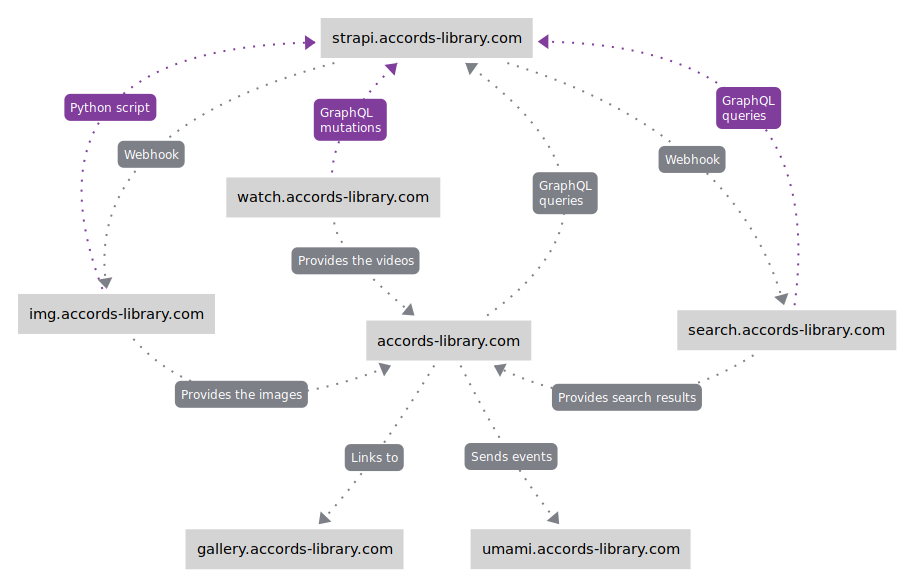
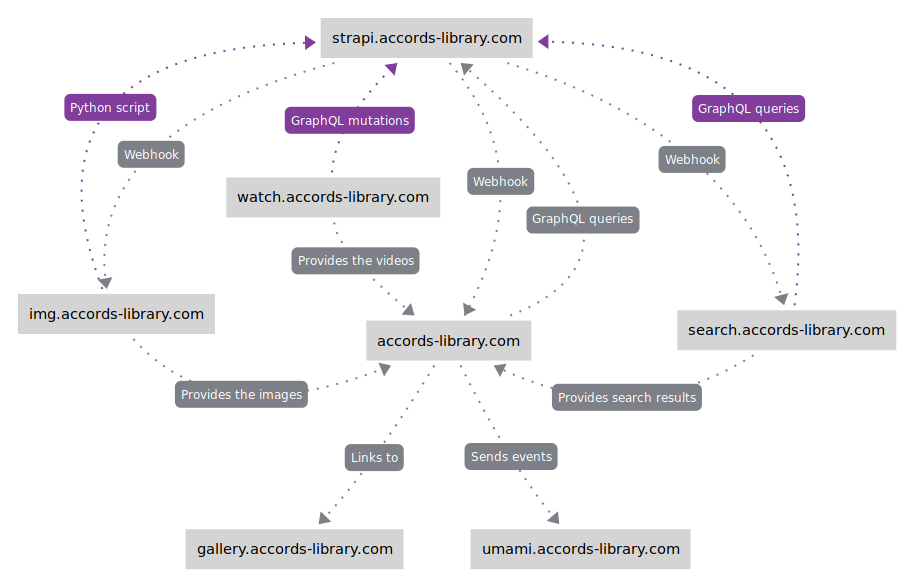
updated README

diff --git a/src/pages/index.tsx b/src/pages/index.tsx
@@ -1,9 +1,14 @@
+import { GetStaticProps } from "next";
 import { PostPage } from "components/PostPage";
-import { getPostStaticProps, PostStaticProps } from "graphql/getPostStaticProps";
+import { PostStaticProps } from "graphql/getPostStaticProps";
 import { Terminal } from "components/Cli/Terminal";
 import { atoms } from "contexts/atoms";
 import { useAtomGetter } from "helpers/atoms";
-import { TITLE_PREFIX } from "helpers/openGraph";
+import { getOpenGraph } from "helpers/openGraph";
+import { useFormat } from "hooks/useFormat";
+import { getFormat } from "helpers/i18n";
+import { getReadySdk } from "graphql/sdk";
+import { PostWithTranslations } from "types/types";
 
 /*
  *                                           ╭────────╮
@@ -11,6 +16,7 @@ import { TITLE_PREFIX } from "helpers/openGraph";
  */
 
 const Home = (props: PostStaticProps): JSX.Element => {
+  const { format } = useFormat();
   const isTerminalMode = useAtomGetter(atoms.layout.terminalMode);
 
   if (isTerminalMode) {
@@ -45,7 +51,6 @@ const Home = (props: PostStaticProps): JSX.Element => {
         </div>
       }
       displayTitle={false}
-      openGraph={{ ...props.openGraph, title: TITLE_PREFIX }}
       displayLanguageSwitcher
     />
   );
@@ -58,4 +63,21 @@ export default Home;
  * ───────────────────────────────────╯  NEXT DATA FETCHING  ╰──────────────────────────────────────
  */
 
-export const getStaticProps = getPostStaticProps("home");
+export const getStaticProps: GetStaticProps = async (context) => {
+  const sdk = getReadySdk();
+  const { format } = getFormat(context.locale);
+  const post = await sdk.getPost({
+    slug: "home",
+    language_code: context.locale ?? "en",
+  });
+  if (post.posts?.data && post.posts.data.length > 0) {
+    const props: PostStaticProps = {
+      post: post.posts.data[0]?.attributes as PostWithTranslations,
+      openGraph: getOpenGraph(format),
+    };
+    return {
+      props: props,
+    };
+  }
+  return { notFound: true };
+};

diff --git a/src/helpers/openGraph.ts b/src/helpers/openGraph.ts
@@ -2,6 +2,7 @@ import { OgImage, getImgSizesByQuality, ImageQuality, getAssetURL } from "./img"
 import { isDefinedAndNotEmpty } from "./asserts";
 import { getFormat } from "./i18n";
 import { UploadImageFragment } from "graphql/generated";
+import { useFormat } from "hooks/useFormat";
 
 const DEFAULT_OG_THUMBNAIL = {
   image: `${process.env.NEXT_PUBLIC_URL_SELF}/default_og.jpg`,
@@ -20,7 +21,7 @@ export interface OpenGraph {
 }
 
 export const getOpenGraph = (
-  format: ReturnType<typeof getFormat>["format"],
+  format: ReturnType<typeof getFormat>["format"] | ReturnType<typeof useFormat>["format"],
   title?: string | null | undefined,
   description?: string | null | undefined,
   thumbnail?: UploadImageFragment | null | undefined

diff --git a/README.md b/README.md
@@ -11,31 +11,62 @@ Yoko Taro is a Japanese video game director and scenario writer. He is best-know
 
 ## Technologies
 
-#### [Content Management System](https://github.com/Accords-Library/strapi.accords-library.com)
+### Overview
 
-- CMS: [Stapi](https://strapi.io/)
-  - GraphQL endpoint
-  - Multilanguage support
-  - Markdown format for the rich text fields
-  - Use webhooks to notify the front-end, search engine, and image processor of updates
+![](docs/project-mind-map.png)
 
-#### [Image Processor](https://github.com/Accords-Library/img.accords-library.com)
+_Purple connections are actions done at build-time only. Grey connections can be at build-time or run-time._
 
-- Convert the images from the CMS to 4 formats
-  - Small: 512x512, quality 60, .webp
-  - Medium: 1024x1024, quality 75, .webp
-  - Large: 2048x2048, quality 80, .webp
-  - Og: 512x512, quality 60, .jpg
+### [strapi.accords-library.com](https://github.com/Accords-Library/strapi.accords-library.com)
 
-#### [Search Engine](https://github.com/Accords-Library/search.accords-library.com)
+Our Content Management System (CMS) that uses [Strapi](https://strapi.io/).
 
-- Search Engine: [Meilisearch](https://www.meilisearch.com/)
+- Use the official [GraphQL plugin](https://market.strapi.io/plugins/@strapi-plugin-graphql)
+- Multilanguage support
+- Markdown format for the rich text fields
+- Use webhooks to notify the front-end, search engine, and image processor when new content/media has been created/modified/deleted
 
-#### [Front](https://github.com/Accords-Library/accords-library.com) (this repository)
+### [img.accords-library.com](https://github.com/Accords-Library/img.accords-library.com)
+
+A custom made image processor to overcome the lack of customization offered by Strapi build-in image processor. There is a python script to bulk process all images uploaded to Strapi. Subsequent changes to Strapi's media library can be handled using webhooks. The repo includes a server that listen to these webhook calls, and another to serve the images.  
+
+Each image in Strapi's media library is converted to four different formats:
+- Small: 512x512, quality 60, .webp
+- Medium: 1024x1024, quality 75, .webp
+- Large: 2048x2048, quality 80, .webp
+- Og: 512x512, quality 60, .jpg
+
+### [search.accords-library.com](https://github.com/Accords-Library/search.accords-library.com)
+
+A search engine that uses [Meilisearch](https://www.meilisearch.com/).
+The repo includes a docker-compose file to run an instance of Meilisearch. There is also a server that populates Meilisearch's documents at startup, then listen to webhooks sent by Strapi for subsequent changes. 
+
+### [gallery.accords-library.com](https://github.com/Accords-Library/gallery.accords-library.com)
+
+An image board engine, uses [Szurubooru](https://github.com/rr-/szurubooru), a lighweight engine inspired by Danbooru (and Booru-type galleries in general). Unlike the other subdomains, this repo is completely separated from the rest of the stack.
+
+### [watch.accords-library.com](https://github.com/Accords-Library/watch.accords-library.com)
+
+A set of tools to archive videos on multiple platforms. The repo contains a CLI tool to archive YouTube videos. There is also a Python script which import the videos metadata to Strapi using GraphQL mutations. Finally, there's a server to serve the video files and thumbnail.
+
+### [umami.accords-library.com](https://umami.is/)
+
+An open-source self-hosted alternative to Google Analytics which doesn't require a cookie notice to be GDPR compliant.
+
+### [accords-library.com](https://github.com/Accords-Library/accords-library.com) (this repository)
+
+A detailled look at the technologies used in this repository:
 
 - Language: [TypeScript](https://www.typescriptlang.org/)
 
 - Framework: [Next.js 13](https://nextjs.org/) (React 18)
+
+- SSG + ISR (Static Site Generation + Incremental Static Regeneration)
+
+  - The website is built before running in production
+  - Performances are great, and it's possible to deploy the app on a CDN
+  - On-Demand ISR to continuously update the website when new content is added or existing content is modified/deleted
+  - UI localizations are downloaded separetely into the `public/local-data` to avoid fetching the same static props for every pages.
 
 - Queries: [GraphQL Code Generator](https://www.graphql-code-generator.com/)
 
@@ -43,16 +74,9 @@ Yoko Taro is a Japanese video game director and scenario writer. He is best-know
   - Read the operations and fragments stored as graphql files in the `src/graphql` folder
   - Automatically generates a typesafe ready to use SDK using [graphql-request](https://www.npmjs.com/package/graphql-request) as the GraphQL client
 
-- Markdown
-
-  - Use [Marked](https://www.npmjs.com/package/marked) to convert markdown to HTML (which is then sanitized using [DOMPurify](https://www.npmjs.com/package/isomorphic-dompurify))
-  - Support for arbitrary React Components and Component Props using [markdown-to-jsx](https://www.npmjs.com/package/markdown-to-jsx)
-  - Autogenerated multi-level table of content and anchor links for the different headers
-
 - Styling: [Tailwind CSS](https://tailwindcss.com/)
 
-  - Support for [Material Symbols](https://fonts.google.com/icons)
-  - Support for creating any arbitrary theming mode by swapping CSS variables
+  - Support for creating any arbitrary theme by swapping CSS variables
   - Support for Container Queries (media queries at the element level)
   - The website has a three-column layout, which turns into one-column + 2 toggleable side-menus if the screen is too narrow.
   - Check out our [Design System Showcase](https://accords-library.com/dev/showcase/design-system)
@@ -61,6 +85,12 @@ Yoko Taro is a Japanese video game director and scenario writer. He is best-know
 
   - Jōtai is a small-weighted library for atomic state management
   - Persistent app state using LocalStorage and SessionStorage
+
+- Markdown
+
+  - Use [Marked](https://www.npmjs.com/package/marked) to convert markdown to HTML (which is then sanitized using [DOMPurify](https://www.npmjs.com/package/isomorphic-dompurify))
+  - Support for arbitrary React Components and Component Props using [markdown-to-jsx](https://www.npmjs.com/package/markdown-to-jsx)
+  - Autogenerated multi-level table of content and anchor links for the different headers
 
 - Accessibility
 
@@ -81,14 +111,7 @@ Yoko Taro is a Japanese video game director and scenario writer. He is best-know
 
   - The translated wordings use [ICU Message Format](https://unicode-org.github.io/icu/userguide/format_parse/messages/) to include variables, plural, dates...
   - Use a custom ICU Typescript transformation script to provide type safety when formatting ICU wordings
-  - Fallback to English if the working isn't available in one language
-
-- SSG + ISR (Static Site Generation + Incremental Static Regeneration)
-
-  - The website is built before running in production
-  - Performances are great, and possibility to deploy the app on a CDN
-  - On-Demand ISR to continuously update the website when new content is added or existing content is modified/deleted
-  - UI localizations are downloaded separetely into the `public/local-data` to avoid fetching the same static props for every page.
+  - Fallback to English if a specific working isn't available in the user's language
 
 - SEO
 
@@ -111,13 +134,11 @@ Yoko Taro is a Japanese video game director and scenario writer. He is best-know
 
 - Other
   - Custom book reader based on [Okuma-Reader](https://github.com/DrMint/Okuma-Reader)
+  - Support for [Material Symbols](https://fonts.google.com/icons)
   - Custom lightbox using [react-zoom-pan-pinch](https://www.npmjs.com/package/react-zoom-pan-pinch)
   - Handle query params using [Zod](https://zod.dev/)
-  - A special "Terminal" mode. Can you find it?
+  - A secret "Terminal" mode. Can you find it?
 
-## Design
-
-Check out our [Design System Showcase](https://accords-library.com/dev/showcase/design-system)!
 
 ## Installation
 
@@ -133,9 +154,9 @@ Create a env file:
 nano .env.local
 ```
 
-Enter the followind information:
+Enter the following information:
 
-```txt
+```
 URL_GRAPHQL=https://url-to.strapi-accords-library.com/graphql
 ACCESS_TOKEN=abcdef0123456789
 REVALIDATION_TOKEN=abcdef0123456789
@@ -146,7 +167,8 @@ NEXT_PUBLIC_URL_CMS=https://url-to.strapi-accords-library.com
 NEXT_PUBLIC_URL_IMG=https://url-to.img-accords-library.com
 NEXT_PUBLIC_URL_WATCH=https://url-to.watch-accords-library.com
 NEXT_PUBLIC_URL_SELF=https://url-to-front-accords-library.com
-NEXT_PUBLIC_URL_SEARCH=https://url-to.search-accords-library.com
+NEXT_PUBLIC_URL_MEILISEARCH=https://url-to.search-accords-library.com
+NEXT_PUBLIC_MEILISEARCH_KEY=abcdef0123456789
 NEXT_PUBLIC_UMAMI_URL=https://url-to.umami-accords-library.com
 NEXT_PUBLIC_UMAMI_ID=abcdef0123456789
 ```
